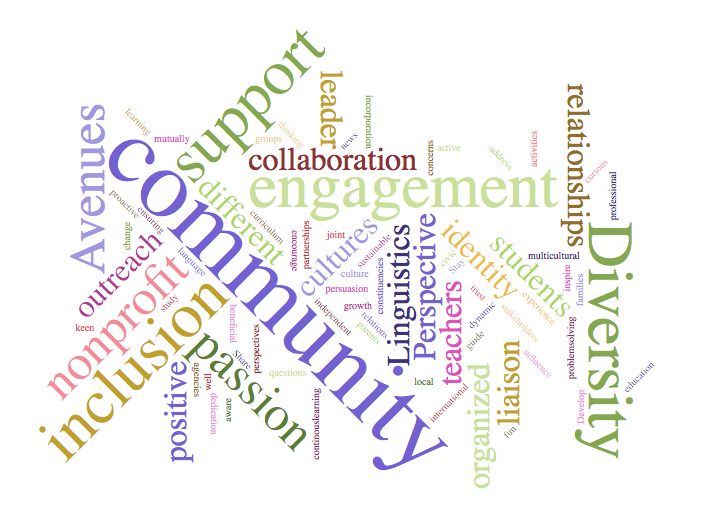
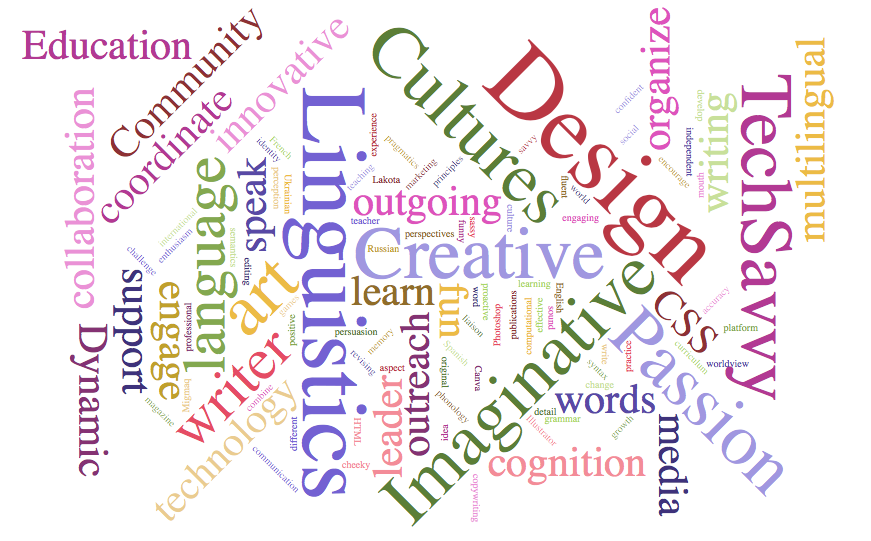
Add files via upload

Changed region(s): [[0.031, 0.0, 0.9606, 0.9846]]

diff --git a/index.html b/index.html
@@ -6,60 +6,64 @@
 
     <body>
         <svg id= "svgID"; style="cursor: pointer; position: absolute; margin: auto; top:0; bottom:0; left:0; right:0" width="960" height="600" version="1.1" xmlns="http://www.w3.org/2000/svg">
-            <g>
+            <g></g>
+            <g transform="translate(480,300)scale(1.0067113637924194,1.0067113637924194)"><text text-anchor="middle" transform="translate(-165,-8)rotate(90)" style="font-size: 92px; font-family: Times; fill: #6b6ecf;">Linguistics</text><text text-anchor="middle" transform="translate(11,-24)rotate(0)" style="font-size: 74px; font-family: Times; fill: #9c9ede;">Creative</text><text text-anchor="middle" transform="translate(-243,-37)rotate(-90)" style="font-size: 60px; font-family: Times; fill: #8ca252;">language</text><text text-anchor="middle" transform="translate(65,-15)rotate(0)" style="font-size: 10px; font-family: Times; fill: #b5cf6b;">learning</text><text text-anchor="middle" transform="translate(257,-148)rotate(-90)" style="font-size: 42px; font-family: Times; fill: #cedb9c;">writing</text><text text-anchor="middle" transform="translate(-75,2)rotate(0)" style="font-size: 42px; font-family: Times; fill: #8c6d31;">learn</text><text text-anchor="middle" transform="translate(-307,39)rotate(90)" style="font-size: 42px; font-family: Times; fill: #bd9e39;">engage</text><text text-anchor="middle" transform="translate(-29,9)rotate(90)" style="font-size: 42px; font-family: Times; fill: #e7ba52;">fun</text><text text-anchor="middle" transform="translate(-177,5)rotate(-45)" style="font-size: 10px; font-family: Times; fill: #e7cb94;">games</text><text text-anchor="middle" transform="translate(-272,-209)rotate(-44.99999999999999)" style="font-size: 42px; font-family: Times; fill: #843c39;">Community</text><text text-anchor="middle" transform="translate(112,-115)rotate(44.99999999999999)" style="font-size: 100px; font-family: Times; fill: #ad494a;">Design</text><text text-anchor="middle" transform="translate(-223,99)rotate(-44.99999999999999)" style="font-size: 60px; font-family: Times; fill: #d6616b;">writer</text><text text-anchor="middle" transform="translate(-67,124)rotate(-90)" style="font-size: 42px; font-family: Times; fill: #e7969c;">leader</text><text text-anchor="middle" transform="translate(-40,82)rotate(-90)" style="font-size: 42px; font-family: Times; fill: #7b4173;">outreach</text><text text-anchor="middle" transform="translate(-294,-137)rotate(-44.99999999999999)" style="font-size: 42px; font-family: Times; fill: #a55194;">coordinate</text><text text-anchor="middle" transform="translate(199,-222)rotate(-90)" style="font-size: 42px; font-family: Times; fill: #ce6dbd;">organize</text><text text-anchor="middle" transform="translate(-373,-103)rotate(-90)" style="font-size: 42px; font-family: Times; fill: #de9ed6;">collaboration</text><text text-anchor="middle" transform="translate(-344,29)rotate(90)" style="font-size: 42px; font-family: Times; fill: #393b79;">support</text><text text-anchor="middle" transform="translate(-202,-96)rotate(-90)" style="font-size: 42px; font-family: Times; fill: #5254a3;">speak</text><text text-anchor="middle" transform="translate(-171,131)rotate(-90)" style="font-size: 10px; font-family: Times; fill: #6b6ecf;">different</text><text text-anchor="middle" transform="translate(136,110)rotate(0)" style="font-size: 42px; font-family: Times; fill: #5254a3;">words</text><text text-anchor="middle" transform="translate(216,115)rotate(44.99999999999999)" style="font-size: 74px; font-family: Times; fill: #9c9ede;">Passion</text><text text-anchor="middle" transform="translate(-173,28)rotate(-90)" style="font-size: 10px; font-family: Times; fill: #8ca252;">positive</text><text text-anchor="middle" transform="translate(14,0)rotate(90)" style="font-size: 10px; font-family: Times; fill: #b5cf6b;">proactive</text><text text-anchor="middle" transform="translate(130,85)rotate(0)" style="font-size: 10px; font-family: Times; fill: #cedb9c;">change</text><text text-anchor="middle" transform="translate(-39,-65)rotate(0)" style="font-size: 10px; font-family: Times; fill: #8c6d31;">perspectives</text><text text-anchor="middle" transform="translate(-193,10)rotate(-44.99999999999999)" style="font-size: 74px; font-family: Times; fill: #e7ba52;">art</text><text text-anchor="middle" transform="translate(-233,155)rotate(-44.99999999999999)" style="font-size: 42px; font-family: Times; fill: #e7cb94;">technology</text><text text-anchor="middle" transform="translate(205,29)rotate(45)" style="font-size: 42px; font-family: Times; fill: #843c39;">CSS</text><text text-anchor="middle" transform="translate(-114,129)rotate(90)" style="font-size: 10px; font-family: Times; fill: #e7969c;">HTML</text><text text-anchor="middle" transform="translate(271,-61)rotate(90)" style="font-size: 74px; font-family: Times; fill: #a55194;">TechSavvy</text><text text-anchor="middle" transform="translate(-206,97)rotate(-44.99999999999999)" style="font-size: 10px; font-family: Times; fill: #ce6dbd;">combine</text><text text-anchor="middle" transform="translate(-178,-209)rotate(-45)" style="font-size: 42px; font-family: Times; fill: #de9ed6;">innovative</text><text text-anchor="middle" transform="translate(-19,-128)rotate(-44.99999999999999)" style="font-size: 10px; font-family: Times; fill: #393b79;">principles</text><text text-anchor="middle" transform="translate(-201,-149)rotate(44.99999999999999)" style="font-size: 10px; font-family: Times; fill: #5254a3;">identity</text><text text-anchor="middle" transform="translate(-194,168)rotate(44.99999999999999)" style="font-size: 10px; font-family: Times; fill: #6b6ecf;">communication</text><text text-anchor="middle" transform="translate(-191,149)rotate(44.99999999999999)" style="font-size: 10px; font-family: Times; fill: #393b79;"></text><text text-anchor="middle" transform="translate(38,-83)rotate(90)" style="font-size: 10px; font-family: Times; fill: #9c9ede;">culture</text><text text-anchor="middle" transform="translate(-112,32)rotate(0)" style="font-size: 10px; font-family: Times; fill: #637939;">persuasion</text><text text-anchor="middle" transform="translate(154,126)rotate(-45)" style="font-size: 10px; font-family: Times; fill: #8ca252;">growth</text><text text-anchor="middle" transform="translate(219,57)rotate(44.99999999999999)" style="font-size: 10px; font-family: Times; fill: #b5cf6b;">curriculum</text><text text-anchor="middle" transform="translate(-287,-72)rotate(-44.99999999999999)" style="font-size: 10px; font-family: Times; fill: #cedb9c;">international</text><text text-anchor="middle" transform="translate(92,-114)rotate(90)" style="font-size: 10px; font-family: Times; fill: #8c6d31;">fluent</text><text text-anchor="middle" transform="translate(202,-127)rotate(44.99999999999999)" style="font-size: 10px; font-family: Times; fill: #bd9e39;">encourage</text><text text-anchor="middle" transform="translate(-194,-113)rotate(90)" style="font-size: 10px; font-family: Times; fill: #e7cb94;">perception</text><text text-anchor="middle" transform="translate(-46,-125)rotate(-44.99999999999999)" style="font-size: 10px; font-family: Times; fill: #843c39;">marketing</text><text text-anchor="middle" transform="translate(-86,41)rotate(-44.99999999999999)" style="font-size: 10px; font-family: Times; fill: #bd9e39;">memory</text><text text-anchor="middle" transform="translate(-76,68)rotate(0)" style="font-size: 10px; font-family: Times; fill: #ad494a;">aspect</text><text text-anchor="middle" transform="translate(161,54)rotate(-90)" style="font-size: 10px; font-family: Times; fill: #d6616b;">practice</text><text text-anchor="middle" transform="translate(98,172)rotate(0)" style="font-size: 42px; font-family: Times; fill: #e7969c;">cognition</text><text text-anchor="middle" transform="translate(-387,98)rotate(90)" style="font-size: 42px; font-family: Times; fill: #7b4173;">Dynamic</text><text text-anchor="middle" transform="translate(111,-81)rotate(0)" style="font-size: 10px; font-family: Times; fill: #ce6dbd;">engaging</text><text text-anchor="middle" transform="translate(247,0)rotate(-44.99999999999999)" style="font-size: 10px; font-family: Times; fill: #de9ed6;">accuracy</text><text text-anchor="middle" transform="translate(189,162)rotate(90)" style="font-size: 42px; font-family: Times; fill: #393b79;">media</text><text text-anchor="middle" transform="translate(216,-149)rotate(90)" style="font-size: 10px; font-family: Times; fill: #5254a3;">independent</text><text text-anchor="middle" transform="translate(-103,-78)rotate(0)" style="font-size: 10px; font-family: Times; fill: #6b6ecf;">teacher</text><text text-anchor="middle" transform="translate(-106,-122)rotate(-44.99999999999999)" style="font-size: 10px; font-family: Times; fill: #9c9ede;">teaching</text><text text-anchor="middle" transform="translate(76,112)rotate(0)" style="font-size: 10px; font-family: Times; fill: #637939;">detail</text><text text-anchor="middle" transform="translate(126,69)rotate(44.99999999999999)" style="font-size: 10px; font-family: Times; fill: #8ca252;">syntax</text><text text-anchor="middle" transform="translate(93,119)rotate(0)" style="font-size: 10px; font-family: Times; fill: #b5cf6b;">grammar</text><text text-anchor="middle" transform="translate(-237,-54)rotate(90)" style="font-size: 10px; font-family: Times; fill: #cedb9c;">semantics</text><text text-anchor="middle" transform="translate(-18,106)rotate(45)" style="font-size: 10px; font-family: Times; fill: #8c6d31;">phonology</text><text text-anchor="middle" transform="translate(-68,-147)rotate(44.99999999999999)" style="font-size: 10px; font-family: Times; fill: #bd9e39;">pragmatics</text><text text-anchor="middle" transform="translate(62,24)rotate(-90)" style="font-size: 10px; font-family: Times; fill: #e7ba52;">computational</text><text text-anchor="middle" transform="translate(132,52)rotate(90)" style="font-size: 10px; font-family: Times; fill: #e7cb94;">write</text><text text-anchor="middle" transform="translate(47,13)rotate(-90)" style="font-size: 10px; font-family: Times; fill: #843c39;">publications</text><text text-anchor="middle" transform="translate(-18,-161)rotate(44.99999999999999)" style="font-size: 74px; font-family: Times; fill: #637939;">Cultures</text><text text-anchor="middle" transform="translate(-92,-166)rotate(-90)" style="font-size: 10px; font-family: Times; fill: #ad494a;">experience</text><text text-anchor="middle" transform="translate(31,23)rotate(-90)" style="font-size: 10px; font-family: Times; fill: #d6616b;">Photoshop</text><text text-anchor="middle" transform="translate(70,130)rotate(44.99999999999999)" style="font-size: 10px; font-family: Times; fill: #e7969c;">Illustrator</text><text text-anchor="middle" transform="translate(6,76)rotate(90)" style="font-size: 10px; font-family: Times; fill: #7b4173;">Canva</text><text text-anchor="middle" transform="translate(-10,-70)rotate(90)" style="font-size: 10px; font-family: Times; fill: #a55194;">funny</text><text text-anchor="middle" transform="translate(-41,-87)rotate(0)" style="font-size: 42px; font-family: Times; fill: #ce6dbd;">outgoing</text><text text-anchor="middle" transform="translate(4,195)rotate(90)" style="font-size: 10px; font-family: Times; fill: #de9ed6;">copywriting</text><text text-anchor="middle" transform="translate(-223,-30)rotate(90)" style="font-size: 10px; font-family: Times; fill: #393b79;">editing</text><text text-anchor="middle" transform="translate(-107,62)rotate(44.99999999999999)" style="font-size: 10px; font-family: Times; fill: #5254a3;">revising</text><text text-anchor="middle" transform="translate(-290,-54)rotate(-44.99999999999999)" style="font-size: 10px; font-family: Times; fill: #6b6ecf;">enthusiasm</text><text text-anchor="middle" transform="translate(161,-164)rotate(-44.99999999999999)" style="font-size: 10px; font-family: Times; fill: #9c9ede;">social</text><text text-anchor="middle" transform="translate(67,100)rotate(-45)" style="font-size: 74px; font-family: Times; fill: #637939;">Imaginative</text><text text-anchor="middle" transform="translate(353,-161)rotate(-90)" style="font-size: 42px; font-family: Times; fill: #e7ba52;">multilingual</text><text text-anchor="middle" transform="translate(2,26)rotate(44.99999999999999)" style="font-size: 10px; font-family: Times; fill: #637939;">liaison</text><text text-anchor="middle" transform="translate(-309,111)rotate(45)" style="font-size: 10px; font-family: Times; fill: #8ca252;">magazine</text><text text-anchor="middle" transform="translate(-189,-151)rotate(44.99999999999999)" style="font-size: 10px; font-family: Times; fill: #b5cf6b;">French</text><text text-anchor="middle" transform="translate(-15,53)rotate(44.99999999999999)" style="font-size: 10px; font-family: Times; fill: #cedb9c;">Spanish</text><text text-anchor="middle" transform="translate(87,-4)rotate(90)" style="font-size: 10px; font-family: Times; fill: #8c6d31;">English</text><text text-anchor="middle" transform="translate(-85,-50)" style="font-size: 10px; font-family: Times; fill: #bd9e39;">Russian</text><text text-anchor="middle" transform="translate(-183,-107)rotate(90)" style="font-size: 10px; font-family: Times; fill: #e7ba52;">Ukrainian</text><text text-anchor="middle" transform="translate(-278,93)rotate(-90)" style="font-size: 10px; font-family: Times; fill: #e7cb94;">Migmaq</text><text text-anchor="middle" transform="translate(-82,-119)rotate(0)" style="font-size: 10px; font-family: Times; fill: #843c39;">Lakota</text><text text-anchor="middle" transform="translate(60,-155)rotate(-44.99999999999999)" style="font-size: 10px; font-family: Times; fill: #ad494a;">savvy</text><text text-anchor="middle" transform="translate(1,-74)rotate(90)" style="font-size: 10px; font-family: Times; fill: #d6616b;">sassy</text><text text-anchor="middle" transform="translate(-112,164)" style="font-size: 10px; font-family: Times; fill: #e7969c;">cheeky</text><text text-anchor="middle" transform="translate(-276,25)rotate(-90)" style="font-size: 10px; font-family: Times; fill: #7b4173;">professional</text><text text-anchor="middle" transform="translate(4,-5)rotate(90)" style="font-size: 10px; font-family: Times; fill: #393b79;">word</text><text text-anchor="middle" transform="translate(-21,130)rotate(-90)" style="font-size: 10px; font-family: Times; fill: #a55194;">idea</text><text text-anchor="middle" transform="translate(79,16)rotate(90)" style="font-size: 10px; font-family: Times; fill: #ce6dbd;">sound</text><text text-anchor="middle" transform="translate(233,-116)rotate(-90)" style="font-size: 10px; font-family: Times; fill: #de9ed6;">mouth</text><text text-anchor="middle" transform="translate(108,-105)rotate(44.99999999999999)" style="font-size: 10px; font-family: Times; fill: #393b79;">world</text><text text-anchor="middle" transform="translate(257,64)rotate(0)" style="font-size: 10px; font-family: Times; fill: #5254a3;">worldview</text><text text-anchor="middle" transform="translate(-327,-39)rotate(45)" style="font-size: 10px; font-family: Times; fill: #6b6ecf;">challenge</text><text text-anchor="middle" transform="translate(-359,-242)rotate(0)" style="font-size: 42px; font-family: Times; fill: #a55194;">Education</text><text text-anchor="middle" transform="translate(161,-200)rotate(-45)" style="font-size: 10px; font-family: Times; fill: #9c9ede;">confident</text><text text-anchor="middle" transform="translate(-27,70)rotate(90)" style="font-size: 10px; font-family: Times; fill: #637939;">original</text><text text-anchor="middle" transform="translate(270,28)rotate(0)" style="font-size: 10px; font-family: Times; fill: #8ca252;">platform</text><text text-anchor="middle" transform="translate(73,13)rotate(-90)" style="font-size: 10px; font-family: Times; fill: #b5cf6b;">effective</text><text text-anchor="middle" transform="translate(227,-195)rotate(90)" style="font-size: 10px; font-family: Times; fill: #cedb9c;">develop</text>
             </g>
-            <g transform="translate(480,300)scale(1,1)"><text text-anchor="middle" transform="translate(-110,43)rotate(44.99999999999999)" style="font-size: 99px; font-family: Times; fill: #6b6ecf;">community</text><text text-anchor="middle" transform="translate(-265,-90)rotate(-90)" style="font-size: 50px; font-family: Times; fill: #9c9ede;">Avenues</text><text text-anchor="middle" transform="translate(55,108)rotate(0)" style="font-size: 10px; font-family: Times; fill: #637939;">local</text><text text-anchor="middle" transform="translate(220,64)rotate(90)" style="font-size: 64px; font-family: Times; fill: #8ca252;">Diversity</text><text text-anchor="middle" transform="translate(156,5)rotate(44.99999999999999)" style="font-size: 32px; font-family: Times; fill: #b5cf6b;">students</text><text text-anchor="middle" transform="translate(199,-111)rotate(90)" style="font-size: 32px; font-family: Times; fill: #8c6d31;">relationships</text><text text-anchor="middle" transform="translate(-100,-135)rotate(0)" style="font-size: 10px; font-family: Times; fill: #e7cb94;">groups</text><text text-anchor="middle" transform="translate(-110,72)rotate(-90)" style="font-size: 10px; font-family: Times; fill: #843c39;">perspectives</text><text text-anchor="middle" transform="translate(-158,105)rotate(-90)" style="font-size: 10px; font-family: Times; fill: #ad494a;">well</text><text text-anchor="middle" transform="translate(92,56)rotate(-90)" style="font-size: 32px; font-family: Times; fill: #ce6dbd;">teachers</text><text text-anchor="middle" transform="translate(-183,135)rotate(-90)" style="font-size: 32px; font-family: Times; fill: #6b6ecf;">positive</text><text text-anchor="middle" transform="translate(81,-17)rotate(-44.99999999999999)" style="font-size: 10px; font-family: Times; fill: #b5cf6b;">civic</text><text text-anchor="middle" transform="translate(-175,103)rotate(90)" style="font-size: 10px; font-family: Times; fill: #8c6d31;">agencies</text><text text-anchor="middle" transform="translate(-60,-32)rotate(-90)" style="font-size: 10px; font-family: Times; fill: #ad494a;">partnerships</text><text text-anchor="middle" transform="translate(-33,-39)rotate(0)" style="font-size: 10px; font-family: Times; fill: #d6616b;">joint</text><text text-anchor="middle" transform="translate(168,-128)rotate(-90)" style="font-size: 10px; font-family: Times; fill: #e7969c;">activities</text><text text-anchor="middle" transform="translate(-220,-55)rotate(44.99999999999999)" style="font-size: 10px; font-family: Times; fill: #7b4173;">ensuring</text><text text-anchor="middle" transform="translate(7,-24)rotate(-44.99999999999999)" style="font-size: 10px; font-family: Times; fill: #a55194;">sustainable</text><text text-anchor="middle" transform="translate(-197,-135)rotate(0)" style="font-size: 10px; font-family: Times; fill: #ce6dbd;">mutually</text><text text-anchor="middle" transform="translate(-139,47)rotate(90)" style="font-size: 10px; font-family: Times; fill: #de9ed6;">beneficial</text><text text-anchor="middle" transform="translate(-129,85)rotate(44.99999999999999)" style="font-size: 10px; font-family: Times; fill: #393b79;">Share</text><text text-anchor="middle" transform="translate(-18,-134)rotate(-44.99999999999999)" style="font-size: 10px; font-family: Times; fill: #5254a3;">news</text><text text-anchor="middle" transform="translate(90,-9)rotate(-44.99999999999999)" style="font-size: 10px; font-family: Times; fill: #9c9ede;">Stay</text><text text-anchor="middle" transform="translate(-138,133)rotate(-90)" style="font-size: 10px; font-family: Times; fill: #637939;">aware</text><text text-anchor="middle" transform="translate(130,-117)rotate(44.99999999999999)" style="font-size: 10px; font-family: Times; fill: #b5cf6b;">address</text><text text-anchor="middle" transform="translate(-81,99)rotate(0)" style="font-size: 10px; font-family: Times; fill: #cedb9c;">questions</text><text text-anchor="middle" transform="translate(64,-119)rotate(-90)" style="font-size: 10px; font-family: Times; fill: #8c6d31;">concerns</text><text text-anchor="middle" transform="translate(-221,104)rotate(-44.99999999999999)" style="font-size: 64px; font-family: Times; fill: #bd9e39;">inclusion</text><text text-anchor="middle" transform="translate(214,13)rotate(-90)" style="font-size: 10px; font-family: Times; fill: #9c9ede;">families</text><text text-anchor="middle" transform="translate(108,65)rotate(-44.99999999999999)" style="font-size: 10px; font-family: Times; fill: #637939;">guide</text><text text-anchor="middle" transform="translate(-109,-159)rotate(-45)" style="font-size: 64px; font-family: Times; fill: #8ca252;">support</text><text text-anchor="middle" transform="translate(-2,58)rotate(44.99999999999999)" style="font-size: 10px; font-family: Times; fill: #b5cf6b;">parents</text><text text-anchor="middle" transform="translate(-233,-153)rotate(44.99999999999999)" style="font-size: 10px; font-family: Times; fill: #bd9e39;">learning</text><text text-anchor="middle" transform="translate(-244,4)rotate(-45)" style="font-size: 32px; font-family: Times; fill: #a55194;">outreach</text><text text-anchor="middle" transform="translate(215,130)rotate(-90)" style="font-size: 10px; font-family: Times; fill: #de9ed6;">Develop</text><text text-anchor="middle" transform="translate(35,-70)rotate(0)" style="font-size: 64px; font-family: Times; fill: #cedb9c;">engagement</text><text text-anchor="middle" transform="translate(-127,123)rotate(44.99999999999999)" style="font-size: 50px; font-family: Times; fill: #637939;">passion</text><text text-anchor="middle" transform="translate(-239,-41)rotate(-90)" style="font-size: 10px; font-family: Times; fill: #8ca252;">change</text><text text-anchor="middle" transform="translate(-134,-49)rotate(44.99999999999999)" style="font-size: 32px; font-family: Times; fill: #b5cf6b;">different</text><text text-anchor="middle" transform="translate(120,149)rotate(-90)" style="font-size: 32px; font-family: Times; fill: #cedb9c;">organized</text><text text-anchor="middle" transform="translate(150,106)rotate(-90)" style="font-size: 32px; font-family: Times; fill: #bd9e39;">liaison</text><text text-anchor="middle" transform="translate(168,33)rotate(44.99999999999999)" style="font-size: 10px; font-family: Times; fill: #e7ba52;">experience</text><text text-anchor="middle" transform="translate(-80,-140)rotate(45)" style="font-size: 10px; font-family: Times; fill: #e7cb94;">thinking</text><text text-anchor="middle" transform="translate(-198,28)rotate(-44.99999999999999)" style="font-size: 10px; font-family: Times; fill: #ad494a;">study</text><text text-anchor="middle" transform="translate(66,10)rotate(-90)" style="font-size: 32px; font-family: Times; fill: #6b6ecf;">Perspective</text><text text-anchor="middle" transform="translate(107,18)rotate(44.99999999999999)" style="font-size: 10px; font-family: Times; fill: #d6616b;">trust</text><text text-anchor="middle" transform="translate(-242,59)rotate(-45)" style="font-size: 50px; font-family: Times; fill: #e7969c;">nonprofit</text><text text-anchor="middle" transform="translate(201,1)rotate(-90)" style="font-size: 10px; font-family: Times; fill: #ce6dbd;">inspire</text><text text-anchor="middle" transform="translate(4,50)rotate(44.99999999999999)" style="font-size: 10px; font-family: Times; fill: #6b6ecf;">relations</text><text text-anchor="middle" transform="translate(-25,-14)rotate(-44.99999999999999)" style="font-size: 32px; font-family: Times; fill: #9c9ede;">cultures</text><text text-anchor="middle" transform="translate(143,157)rotate(-44.99999999999999)" style="font-size: 10px; font-family: Times; fill: #637939;">fun</text><text text-anchor="middle" transform="translate(40,18)rotate(-90)" style="font-size: 32px; font-family: Times; fill: #393b79;">Linguistics</text><text text-anchor="middle" transform="translate(-36,-107)rotate(0)" style="font-size: 32px; font-family: Times; fill: #843c39;">collaboration</text><text text-anchor="middle" transform="translate(14,9)rotate(-90)" style="font-size: 10px; font-family: Times; fill: #6b6ecf;">constituencies</text><text text-anchor="middle" transform="translate(-104,-48)rotate(45)" style="font-size: 10px; font-family: Times; fill: #8c6d31;">curriculum</text><text text-anchor="middle" transform="translate(205,71)rotate(-90)" style="font-size: 10px; font-family: Times; fill: #7b4173;">problemsolving</text><text text-anchor="middle" transform="translate(-77,-26)rotate(90)" style="font-size: 10px; font-family: Times; fill: #a55194;">encourage</text><text text-anchor="middle" transform="translate(-158,137)rotate(90)" style="font-size: 10px; font-family: Times; fill: #de9ed6;">dedication</text><text text-anchor="middle" transform="translate(185,-18)" style="font-size: 10px; font-family: Times; fill: #393b79;">multicultural</text><text text-anchor="middle" transform="translate(272,102)rotate(-44.99999999999999)" style="font-size: 10px; font-family: Times; fill: #5254a3;">education</text><text text-anchor="middle" transform="translate(-3,-155)rotate(90)" style="font-size: 10px; font-family: Times; fill: #8ca252;">incorporation</text><text text-anchor="middle" transform="translate(80,-126)rotate(0)" style="font-size: 10px; font-family: Times; fill: #cedb9c;">active</text><text text-anchor="middle" transform="translate(-246,-71)rotate(44.99999999999999)" style="font-size: 10px; font-family: Times; fill: #8c6d31;">proactive</text><text text-anchor="middle" transform="translate(-48,-167)rotate(90)" style="font-size: 32px; font-family: Times; fill: #bd9e39;">leader</text><text text-anchor="middle" transform="translate(105,-10)rotate(44.99999999999999)" style="font-size: 32px; font-family: Times; fill: #e7ba52;">identity</text><text text-anchor="middle" transform="translate(149,48)rotate(44.99999999999999)" style="font-size: 10px; font-family: Times; fill: #e7cb94;">stakeholders</text><text text-anchor="middle" transform="translate(-38,42)rotate(44.99999999999999)" style="font-size: 10px; font-family: Times; fill: #843c39;">independent</text><text text-anchor="middle" transform="translate(82,128)rotate(-44.99999999999999)" style="font-size: 10px; font-family: Times; fill: #ad494a;">international</text><text text-anchor="middle" transform="translate(-284,54)rotate(0)" style="font-size: 10px; font-family: Times; fill: #d6616b;">keen</text><text text-anchor="middle" transform="translate(229,-104)rotate(-44.99999999999999)" style="font-size: 10px; font-family: Times; fill: #e7969c;">curious</text><text text-anchor="middle" transform="translate(-50,147)rotate(-90)" style="font-size: 10px; font-family: Times; fill: #7b4173;">continouslearning</text><text text-anchor="middle" transform="translate(-11,32)" style="font-size: 10px; font-family: Times; fill: #a55194;">growth</text><text text-anchor="middle" transform="translate(-22,15)rotate(0)" style="font-size: 10px; font-family: Times; fill: #ce6dbd;">persuasion</text><text text-anchor="middle" transform="translate(167,89)rotate(44.99999999999999)" style="font-size: 10px; font-family: Times; fill: #de9ed6;">influence</text><text text-anchor="middle" transform="translate(247,-81)rotate(-90)" style="font-size: 10px; font-family: Times; fill: #393b79;">professional</text><text text-anchor="middle" transform="translate(-130,-69)rotate(90)" style="font-size: 10px; font-family: Times; fill: #5254a3;"></text><text text-anchor="middle" transform="translate(115,40)rotate(-44.99999999999999)" style="font-size: 10px; font-family: Times; fill: #5254a3;">dynamic</text><text text-anchor="middle" transform="translate(-179,-13)rotate(44.99999999999999)" style="font-size: 10px; font-family: Times; fill: #6b6ecf;">language</text><text text-anchor="middle" transform="translate(-14,0)" style="font-size: 10px; font-family: Times; fill: #9c9ede;">culture</text>
-            </g>
-        </svg>
+            </svg>
     	<p style="position: relative; float:left; font-family: Garamond; margin: auto; margin-top: 650px; margin-bottom:1em">
-          This page is an interactive cover letter. Click on the <mark><b> large</b></mark> words to find out more about why I would be a good fit for the Director of Community Engagement and Inclusion at Avenues. There are 13 of these in total. <br>
+          This page is an interactive cover letter. Click on the <mark><b>capitalized</b></mark> words to find out more about why I would be a good fit as a Creative Writer/Designer at Memrise.  <br>There are 10 of these in total. Start with "Linguistics".<br>
+
+          Check out my LinkedIn profile <a href="https://www.linkedin.com/in/yuliyamanyakina">here</a><br>
 
           Made with <a href="http://www.jasondavies.com/">Jason Davies</a> word cloud generator & <a href="https://github.com/discreteinfinity">discreteinfinity's</a> modalHelper.
+
+          
         </p>
 
         <script src = "modalHelper.js"></script>
         <script>
           window.onload = function (){
            var wordMap = {
-            'community' : function (){
-                return fontformat('Words here')
+            'Community' : function (){
+                return fontformat('From the academic community to Native American communities, I am all about working with people from different backgrounds to encourage their interests, develop their strengths and to provide support in new pursuits.' + "<br>" + "<br>" + ' Over the past six years I\'ve held positions as a student mentor, a Teaching Assistant, a Community Liaison and a Communications & Events Manager; I have worked with students, teachers, parents, tribal members, government officials and various organizations to recruit and engage new language learners and to foster an environment where everyone is comfortable and inspired to learn their language. This experience gives me a great base for engaging speakers of English in learning other languages on Memrise.' + "<br>" + "<br>" + 'Click on "Cultures" to see what I mean.')
             },
-            'engagement' : function(){
-                return fontformat('Words here')
-            },
-            'collaboration' : function(){
-                return fontformat('I am part of a larger group collaboration with Mi\'gmaq speakers and language teachers in the Mi\'gmaq Listuguj community (see \'Listuguj\').' + "<br>" + "<br>" + ' The collaboration is a collective effort to develop tools for language teaching, documentation and analysis. Check out the Mi\'gmaq Research Partnership blog ' + "<a href = 'http://migmaq.org/' target = '_blank'>" + 'here.')
-            },
-            'nonprofit' : function(){
-                return fontformat('Words here')
-            },
+            // 'engagement' : function(){
+                // return fontformat('As a Communications & Events Manager at The Language Conservancy, I created, implemented, and developed the organization’s strategic marketing, communications and engagement plan, including both short and long range goals and objectives.' + "<br>" + "<br>" + 'I worked with community members across many reservations to promote curriculum design and to develop acitivites that were culturally-relevant, age-appropriate and catered to various learning styles. ' + "<br>" + "<br>" + 'I also traveled to Washington, D.C. to meet with The Language Conservancy\'s various partner organizations (NCAI, NEH, NHA, NIEA and others) and government representatives to coordinate engagement between the organization\'s work, its constituent tribes and the greater DC community.' + "<br>" + "<br>" + 'Click on "nonprofit" to see what I can offer Avenues!' )
+            // },
+            // 'collaboration' : function(){
+                // return fontformat('I am part of a larger group collaboration with Mi\'gmaq speakers and language teachers in the Mi\'gmaq Listuguj community (see \'Listuguj\').' + "<br>" + "<br>" + ' The collaboration is a collective effort to develop tools for language teaching, documentation and analysis. Check out the Mi\'gmaq Research Partnership blog ' + "<a href = 'http://migmaq.org/' target = '_blank'>" + 'here.')
+            // },
+            // 'nonprofit' : function(){
+                // return fontformat('As a professional with experience in communications and the nonprofit industry, I can readily maintain and deepen key partnerships with local groups, agencies, nonprofits and officials for Avenues. I am well-versed in sharing news between various constituencies and have a passion for furthering others\' education.')
+            // },
             'Linguistics' : function(){
-                return fontformat('Language is at the core of any culture.' + "<br>" + "<br>" + "<b>" + ' Scientifically:' + "</b>" + ' Each language is a complex system of rules that can tell us how the human brain works. We can see how children learn language and realize how incredible linguistic capacity really is!' + "<br>" + "<br>" + "<b>" + ' Socially:' + "</b>" + ' It is one of the most important ways how humans communicate, and, in many cultures, language holds history and traditions.'+ "<br>" + "<br>" + 'This is why it is important to reach out to youth in many Native communities. It is the younger generation that carries on a language, so it is crucial to emphasize what the scientific consequences are when a language dies.')
+                return fontformat('During one of my highest points as a linguist, a 70-year old Lakota elder introduced me to an auditorium full of Lakota community members and said, "This is Yuliya. She\'s one of our language geeks!" ' + "<br>" + "<br>" + 'And that\'s exactly how I identify. Click on "Passion" to read more.' )
             },
-            'identity' : function(){
-                return fontformat('Words here')
+            'Education' : function(){
+                return fontformat('I have always been passionate about integrating education, technology and art. During my undergraduate career I worked as a research assistant with linguists and software engineers to design' + "<a href= https://www.lingsync.org target = '_blank'>" + ' LingSync' + "</a>" + '- an app for creating and maintaining a shared language database for communities, linguists and language learners.' + "<br>" + "<br>" + 'Creating "mems" for Memrise provides a perfect platform for integrating these domains. Click on "TechSavvy" to read about my tech capabilities.')
             },
-            'relationships' : function (){
-                return fontformat('Linguistics is the scientific study of language, a sister branch of psychology. People often think that linguists are just polyglots and are good at learning different languages. But there\'s a very good analogy, comparing linguists to geologists.' + "<br>" + "<br>" + ' Geologists study rocks---their formations, how they change, and how they are similar to or different from other rocks. Likewise, linguists study grammars of different languages, how they change and how they are similar to or different from other languages.'+ "<br>" + "<br>" + 'Linguists advocate for a' + "<b>" + ' rigorous scientific approach ' + "</b>" + ' to model language. Just as we can use functions to model math theories, we can use functions (rules) to model how languages work.')
+            'TechSavvy' : function (){
+                return fontformat('While living in Montreal I became involved in the electronic music and arts scene. This tech scene had fostered my already strong curiosity about the domain and inspired me to learn to code, in order to better understand hierarchical systems that exist in language and music.' + "<br>" + "<br>" + 'While I am not completely proficient in coding languages, I have strong technical skills and see a lot of parallels between all these domains. Moreover, I am motivated to spend the time necessary to learn any new tools and dive into a deeper understanding of Adobe Creative Suite.' + "<br>" + "<br>" + 'Click on "Community" next!')
             },
-            'passion' : function(){
-                return fontformat('Words here') 
+            'Passion' : function(){
+                return fontformat('I have had a long love affair with linguistics...I am not just excited about language, I\'m obsessed with it!' + "<br>" + "<br>" + ' And I love sharing my passion with others. When part of the Memrise team, you can be sure that my nerdy linguistic charm and creativity will work wonders on language learners.' + "<br>" + "<br>" + 'Click on "Creative" to see why.') 
                     //Throughout both my M.A. and B.A. I have demonstrated dedication to teaching through Teaching Assistantships for different courses, including' + "<i>" + ' Introduction to Language, Phonology' + "</i>" + ' and' + "<i>" + ' Psycholinguistics.' + "</i>" + ' While I believe in challenging students by creating activities that stress problem-solving and critical thinking, I also strive to give clear, organized and fun lectures. Effective teaching is very important to me, and this is reflected in high scores and positive comments on my teaching evaluations.' + "<br>" + "<br>" + ' I can offer a project-based approach to language teaching that is particularly appropriate to a STEM curriculum. Documentary linguistics is an inherently interdisciplinary field involving digital collection and processing of audiovisual data, lexicography, and grammatical analysis. I have been studying language scientifically for six years now! Although I love theoretical linguistics, this past year I realized that my passion is really the social aspects of linguistic fieldwork---language revitalization & documentation, community outreach and language teaching (in the context of endangered languages).' + "<br>" + "<br>" + "<b>" + 'Why pick linguistics for The Actua Experience?' + "</b>" + ' Because linguistics provides a very accessible means for students to learn the scientific method. Students are their own \'laboratories\' for testing their hypotheses about how their own language(s) may/may not work. With linguistics, you can teach kids the essential tools of science even when other physical science-class resources are limited. And, importantly, linguistic investigation calls upon THEIR pre-existing expertise as speakers of a language, rather than just introducing a whole body of knowledge from the outside.
             },
-            'positive' : function(){
-                return fontformat('Words here')
+            'Design' : function(){
+                return fontformat('During my first year of undergraduate studies I worked as a graphic designer for a French university magazine called' + "<a href = 'http://www.lorgane.ca/' target = '_blank'>" + ' L\'Organe. ' + "</a>" + 'I won over the position with my traditional art skills, but while working there learned to use Photoshop and Illustrator to create graphics. (I am happy to share some of my work from that time if you are interested).'+ "<br>" + "<br>" + 'In addition to my interest in design, I\'m a techie and a self-motivated coder. Click on "Education" to find out more.' )
             },
-            'Diversity' : function(){
-                return fontformat('Words here.')
+            'Cultures' : function(){
+                return fontformat('My work in linguistics has led me on a journey of cultural exploration; I\'ve worked with a variety of languages, ranging from Indo-European languages to indigenous languages.'+ "<br>" + "<br>" + 'Last year I held a contract position as a Communications & Events Manager at The Language Conservancy. I created, implemented, and developed the organization\'s strategic marketing and communications plan, wrote and edited copy for press releases, product releases, blogs, newsletters, websites and social media. With this copywriting experience I can create a variety of "mems" while keeping up with social media trends.'+ "<br>" + "<br>" + '"Imaginative" looks like a good word to click on.')
             },
-            'teachers' : function(){
-                return fontformat('Words here')
+            'Imaginative' : function(){
+                return fontformat('Let this page serve as an example!'+ "<br>" + "<br>" + 'We\'re almost done...click on "Dynamic" to finish this up.')
             },
-            'support' : function(){
-                return fontformat('Words here')
+            'Dynamic' : function(){
+                return fontformat('I hope this page has shown you that my interests lay at the cross-section of education, language, art and technology. As a professional with previous experience in communications and marketing, background in linguistics and a passion for design, I would be excellently suited for this position.'+ "<br>" + "<br>" + ' I would love the opportunity to share my excitement about languages and engage Memrise language-learners through my creative, personable, and dynamic work style.'+ "<br>" + "<br>" + 'Thank you for taking the time to read this application. Looking forward to hearing from you!')
             },
-            'outreach' : function(){
-                return fontformat('Words here')
+            'Creative' : function(){
+                return fontformat('Many moons ago I was at a crossroads: liguistics or art. After high school I chose to pursue linguistics seriously into my graduate studies; I can gather data, analyze it and write a kickass theoretical linguistics paper. But throughout all of that, my creativity has stayed with me and, on occasion, reared its head in some form or another.'+ "<br>" + "<br>" + 'Click on "Design" for an example.') 
+
             },
             'default': function(x){
                 d3.select('.modal').remove();
